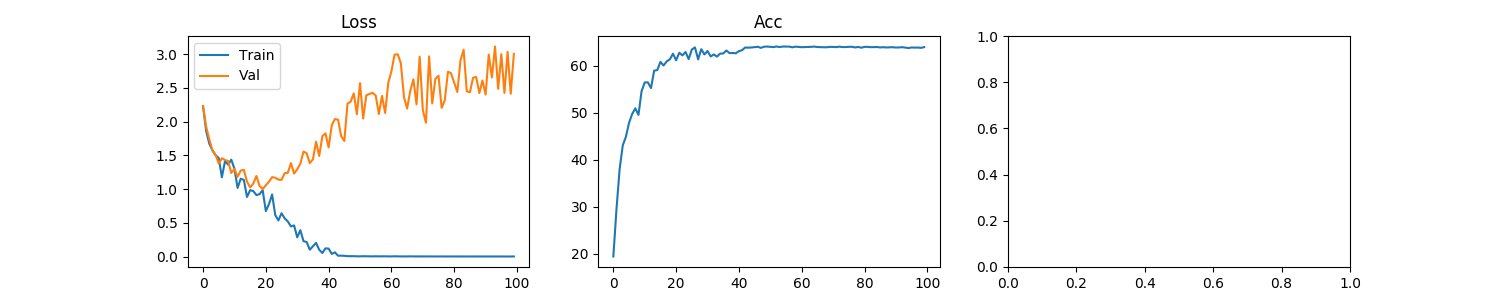
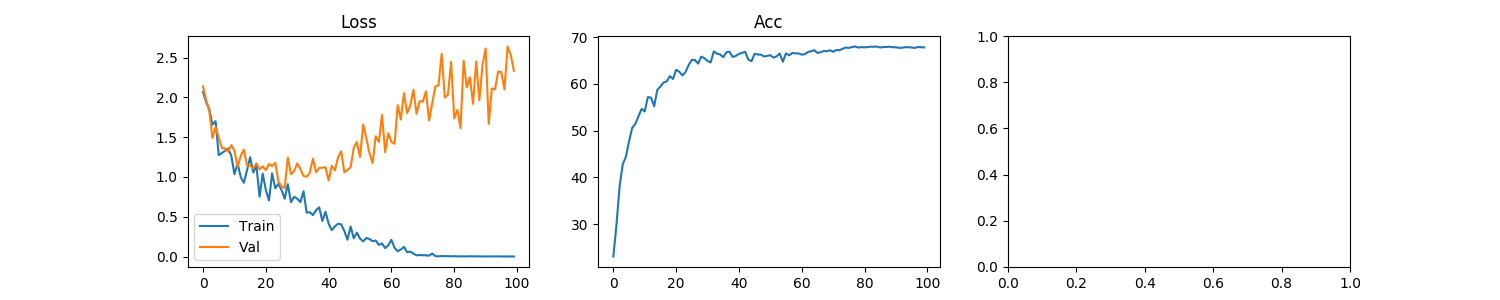
Resultats experience effet nbTF + outil comparaison resultat

diff --git a/higher/test_dataug.py b/higher/test_dataug.py
@@ -11,7 +11,36 @@ BATCH_SIZE = 300
 #TEST_SIZE = 300
 TEST_SIZE = 10000
 
+tf_names = [
+    ## Geometric TF ##
+    'Identity',
+    'FlipUD',
+    'FlipLR',
+    #'Rotate',
+    #'TranslateX',
+    #'TranslateY',
+    #'ShearX',
+    #'ShearY',
+
+    ## Color TF (Expect image in the range of [0, 1]) ##
+    #'Contrast',
+    #'Color',
+    'Brightness',
+    #'Sharpness',
+    #'Posterize',
+    #'Solarize', #=>Image entre [0,1] #Pas opti pour des batch
+
+    #Non fonctionnel
+    #'Auto_Contrast', #Pas opti pour des batch (Super lent)
+    #'Equalize',
+]
+
 #ATTENTION : Dataug (Kornia) Expect image in the range of [0, 1]
+#transform_train = torchvision.transforms.Compose([
+#    torchvision.transforms.RandomHorizontalFlip(),
+#    torchvision.transforms.ToTensor(),
+    #torchvision.transforms.Normalize((0.4914, 0.4822, 0.4465), (0.2023, 0.1994, 0.2010)), #CIFAR10
+#])
 transform = torchvision.transforms.Compose([
     torchvision.transforms.ToTensor(),
     #torchvision.transforms.Normalize((0.4914, 0.4822, 0.4465), (0.2023, 0.1994, 0.2010)), #CIFAR10
@@ -31,6 +60,9 @@ data_test = torchvision.datasets.MNIST(
 data_train = torchvision.datasets.CIFAR10(
     "./data", train=True, download=True, transform=transform
 )
+#data_val = torchvision.datasets.CIFAR10(
+#    "./data", train=True, download=True, transform=transform
+#)
 data_test = torchvision.datasets.CIFAR10(
     "./data", train=False, download=True, transform=transform
 )
@@ -81,7 +113,7 @@ def train_classic(model, epochs=1):
     dl_val_it = iter(dl_val)
     log = []
     for epoch in range(epochs):
-        print_torch_mem("Start epoch")
+        #print_torch_mem("Start epoch")
         t0 = time.process_time()
         for i, (features, labels) in enumerate(dl_train):
             #print_torch_mem("Start iter")
@@ -132,8 +164,8 @@ def train_classic_higher(model, epochs=1):
     #with higher.innerloop_ctx(model, optim, copy_initial_weights=True, track_higher_grads=False) as (fmodel, diffopt):
 
     for epoch in range(epochs):
-        print_torch_mem("Start epoch "+str(epoch))
-        print("Fast param ",len(fmodel._fast_params))
+        #print_torch_mem("Start epoch "+str(epoch))
+        #print("Fast param ",len(fmodel._fast_params))
         t0 = time.process_time()
         for i, (features, labels) in enumerate(dl_train):
             #print_torch_mem("Start iter")
@@ -702,8 +734,8 @@ def run_dist_dataugV2(model, epochs=1, inner_it=0, dataug_epoch_start=0, print_f
 ##########################################
 if __name__ == "__main__":
 
-    n_inner_iter = 0
-    epochs = 2
+    n_inner_iter = 10
+    epochs = 100
     dataug_epoch_start=0
 
     #### Classic ####
@@ -714,7 +746,8 @@ if __name__ == "__main__":
     #model.augment(mode=False)
 
     print(str(model), 'on', device_name)
-    log= train_classic_higher(model=model, epochs=epochs)
+    log= train_classic(model=model, epochs=epochs)
+    #log= train_classic_higher(model=model, epochs=epochs)
 
     ####
     plot_res(log, fig_name="res/{}-{} epochs".format(str(model),epochs))
@@ -728,11 +761,13 @@ if __name__ == "__main__":
     print('-'*9)
     '''
     #### Augmented Model ####
-    '''
+    #'''
+    tf_dict = {k: TF.TF_dict[k] for k in tf_names}
+    #tf_dict = TF.TF_dict
     aug_model = Augmented_model(Data_augV4(TF_dict=TF.TF_dict, mix_dist=0.0), LeNet(3,10)).to(device)
     print(str(aug_model), 'on', device_name)
     #run_simple_dataug(inner_it=n_inner_iter, epochs=epochs)
-    log= run_dist_dataugV2(model=aug_model, epochs=epochs, inner_it=n_inner_iter, dataug_epoch_start=dataug_epoch_start, print_freq=1, loss_patience=10)
+    log= run_dist_dataugV2(model=aug_model, epochs=epochs, inner_it=n_inner_iter, dataug_epoch_start=dataug_epoch_start, print_freq=10, loss_patience=10)
 
     ####
     plot_res(log, fig_name="res/{}-{} epochs (dataug:{})- {} in_it".format(str(aug_model),epochs,dataug_epoch_start,n_inner_iter))
@@ -744,13 +779,14 @@ if __name__ == "__main__":
         json.dump(out, f, indent=True)
         print('Log :\"',f.name, '\" saved !')
     print('-'*9)
-    '''
+    #'''
     ## TF number tests ##
+    '''
     res_folder="res/TF_nb_tests/"
     epochs= 200
     inner_its = [0, 10]
     dataug_epoch_starts= [0, -1]
-    max_TF_nb = len(TF.TF_dict)
+    TF_nb = [14] #range(1,len(TF.TF_dict)+1)
     
     try:
         os.mkdir(res_folder)
@@ -762,14 +798,14 @@ if __name__ == "__main__":
         print("---Starting inner_it", n_inner_iter,"---")
         for dataug_epoch_start in dataug_epoch_starts:
             print("---Starting dataug", dataug_epoch_start,"---")
-            for i in range(1,max_TF_nb):
+            for i in TF_nb:
                 keys = list(TF.TF_dict.keys())[0:i]
                 ntf_dict = {k: TF.TF_dict[k] for k in keys}
 
                 aug_model = Augmented_model(Data_augV4(TF_dict=ntf_dict, mix_dist=0.0), LeNet(3,10)).to(device)
                 print(str(aug_model), 'on', device_name)
                 #run_simple_dataug(inner_it=n_inner_iter, epochs=epochs)
-                log= run_dist_dataugV2(model=aug_model, epochs=epochs, inner_it=n_inner_iter, dataug_epoch_start=dataug_epoch_start, print_freq=1, loss_patience=10)
+                log= run_dist_dataugV2(model=aug_model, epochs=epochs, inner_it=n_inner_iter, dataug_epoch_start=dataug_epoch_start, print_freq=10, loss_patience=10)
 
                 ####
                 plot_res(log, fig_name=res_folder+"{}-{} epochs (dataug:{})- {} in_it".format(str(aug_model),epochs,dataug_epoch_start,n_inner_iter))
@@ -781,3 +817,5 @@ if __name__ == "__main__":
                     json.dump(out, f, indent=True)
                     print('Log :\"',f.name, '\" saved !')
                 print('-'*9)
+
+    '''
